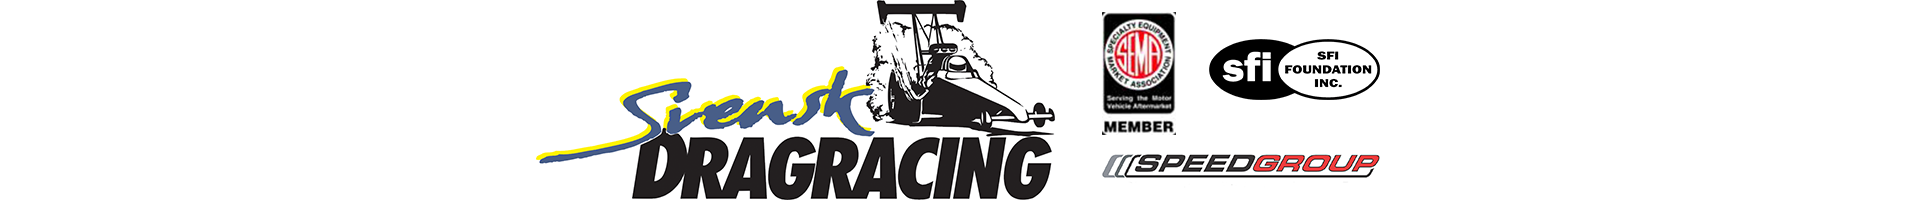
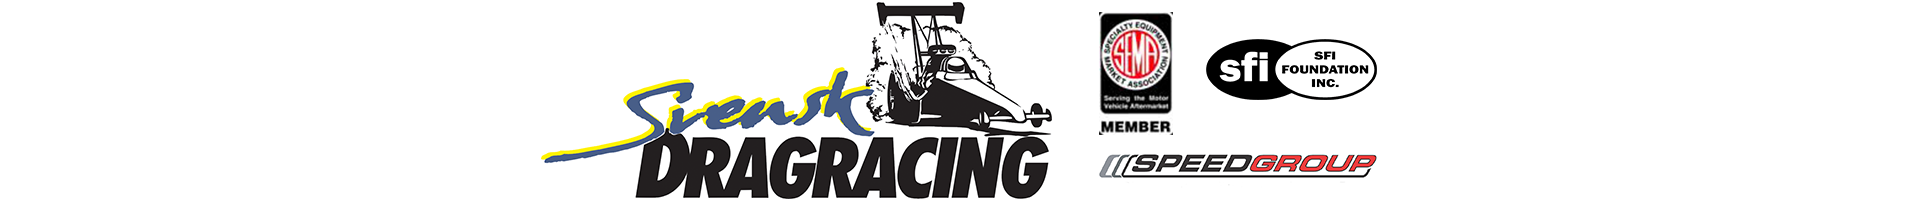
header and css fixes

Changed region(s): [[0.2812, 0.06, 0.7188, 1.0], [0.4375, 0.0, 0.5, 0.03]]

diff --git a/index.html b/index.html
@@ -3,8 +3,7 @@ title: Svensk Dragracing
 ---
 
 <div class="container" id="svensk_dragracing">
-	<h2>Svensk Dragracing</h2>
-	
+
 	<div id="sdr">
 		<h3>Svensk Dragracing</h3>
 		<p>
@@ -44,7 +43,7 @@ title: Svensk Dragracing
 	<div id="gamla_resultat">
 		<h3>Gamla Resultat</h3>
 		<p>
-			<a class="btn btn-primary btn-lg" href="assets/pdf/totalpoints-1997.pdf">
+			<a class="btn btn-primary btn-lg btn-orange" href="assets/pdf/totalpoints-1997.pdf">
 				<span class="fa fa-save"></span>
 				1997
 			</a>

diff --git a/_includes/header.html b/_includes/header.html
@@ -32,7 +32,7 @@
 
     <div class="row">
       <div class="col-12">
-        <img class="img-responsive" src="assets/img/sdr_header.png" alt="Svensk Dragracing Header Image">
+        <img class="img-fluid" src="assets/img/sdr_header.png" alt="Svensk Dragracing Header Image" id="header_img">
       </div>
       
     </div>

diff --git a/css/style.css b/css/style.css
@@ -3,10 +3,10 @@ body {
   padding-top: 75px;
 }
 
-#images .image-container {
+#header_img {
   margin-bottom: 1em;
 }
 
-.btn-primary {
+.btn-orange {
 	color: #f79239;
 }
